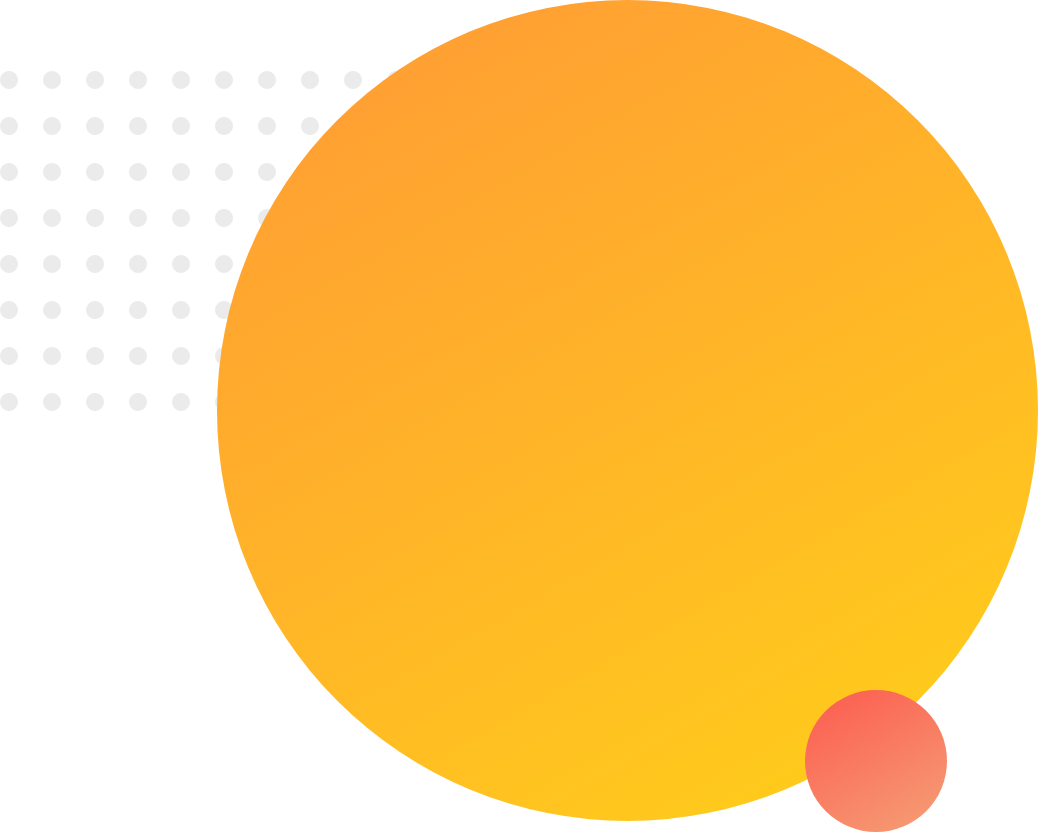
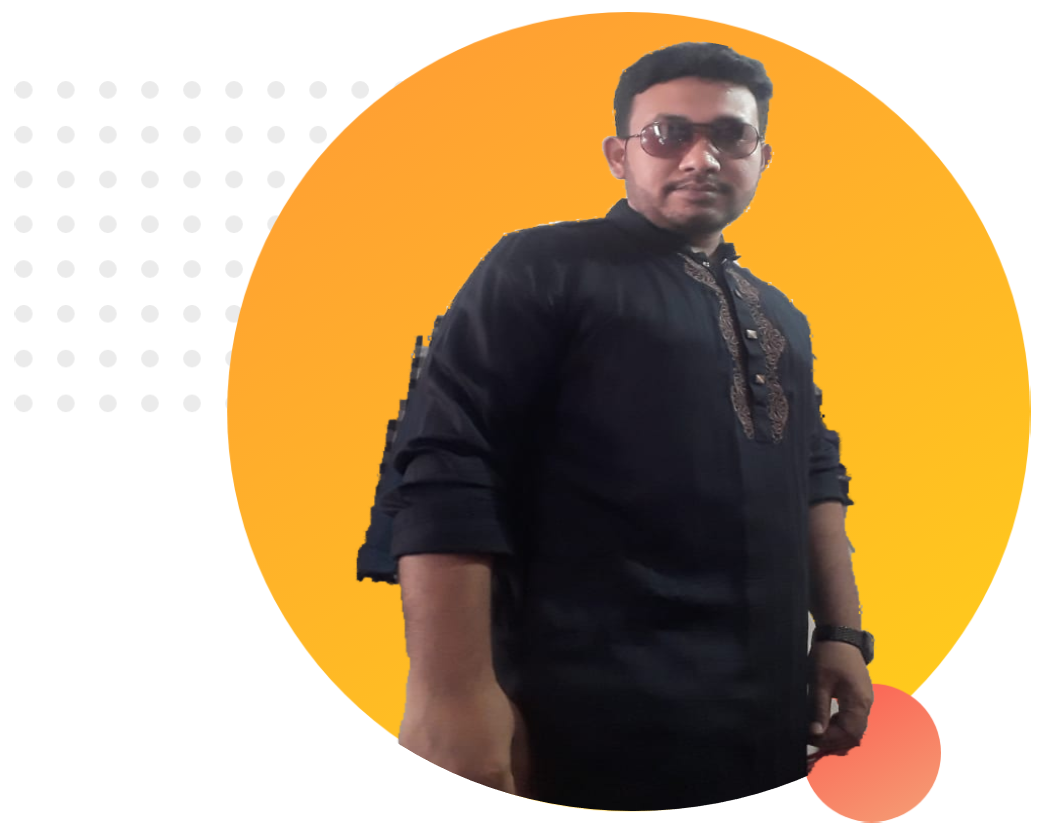
added top part

diff --git a/index.html b/index.html
@@ -1,0 +1,27 @@
+<!DOCTYPE html>
+<html lang="en">
+<head>
+    <meta charset="UTF-8">
+    <meta http-equiv="X-UA-Compatible" content="IE=edge">
+    <meta name="viewport" content="width=device-width, initial-scale=1.0">
+    <title>Sarwar Web Developer</title>
+    <link rel="preconnect" href="https://fonts.googleapis.com">
+    <link rel="preconnect" href="https://fonts.gstatic.com" crossorigin>
+    <link href="https://fonts.googleapis.com/css2?family=Poppins:ital,wght@0,100;0,200;0,300;0,400;0,500;0,600;0,700;0,800;0,900;1,100;1,200;1,300;1,400;1,500;1,600;1,700;1,800;1,900&display=swap" rel="stylesheet"> 
+    <link rel="stylesheet" href="assets/css/style.css">
+</head>
+<body>
+    <section>
+        <div class="half-width">
+            <h1>Welcome To</h1>
+            <h1><span class="name-highlight">Sarwar</span> Morsed</h1>
+            <h3>World-class professional web dev.</h3>
+            <p>Lorem ipsum dolor sit amet, consectetur adipisicing elit. Nam laudantium optio reprehenderit ex eius. Maiores
+                tempore possimus laudantium, qui error distinctio fugit placeat illo veritatis!</p>
+        </div>
+        <div class="half-width">
+            <img src="assets/images/image 11.png" alt="nof-found">
+        </div>
+    </section>
+</body>
+</html>

diff --git a/assets/css/style.css b/assets/css/style.css
@@ -1,0 +1,18 @@
+body{
+    font-family: 'Poppins', sans-serif;
+}
+h1{
+    font-size: 50px;
+}
+.name-highlight{
+    color: tomato;
+}
+.half-width{
+    width: 40%;
+    float: left;
+    margin-left: 5%;
+    padding-left: 2%;
+}
+.half-width img{
+    width: 100%;
+}
